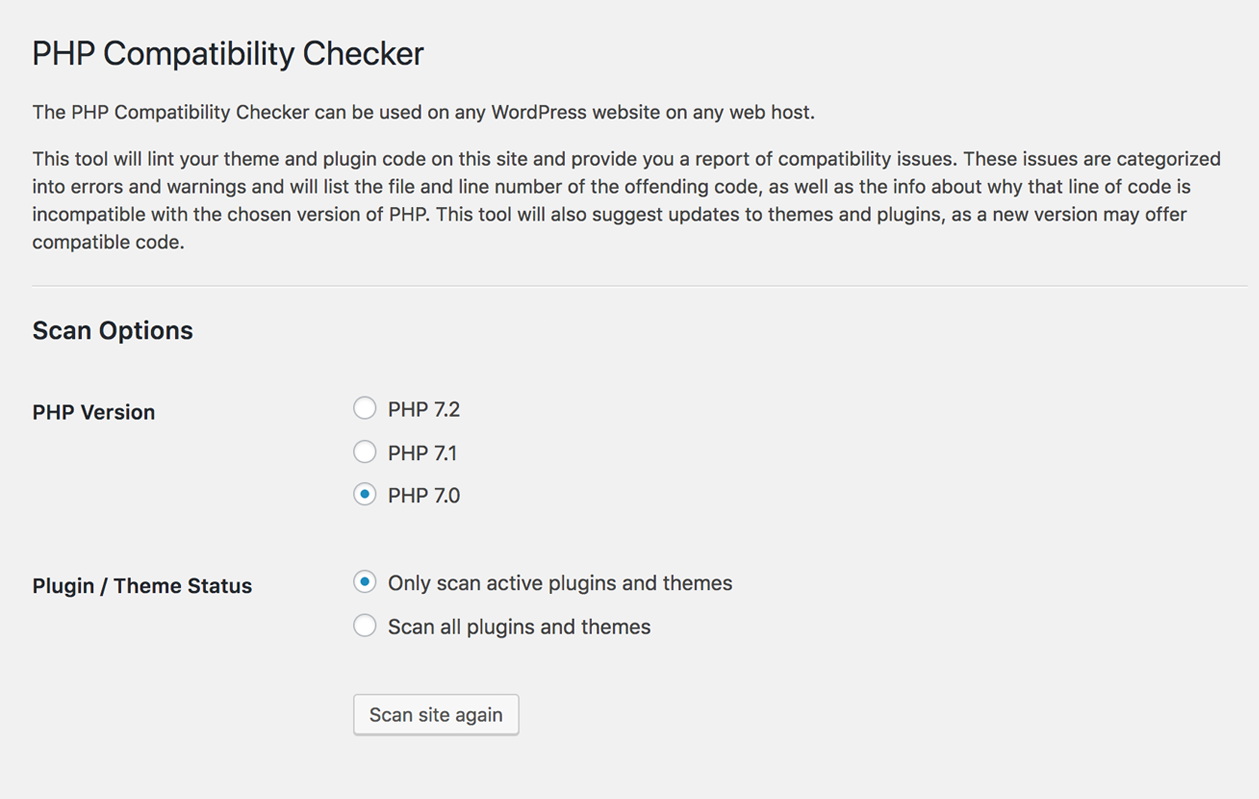
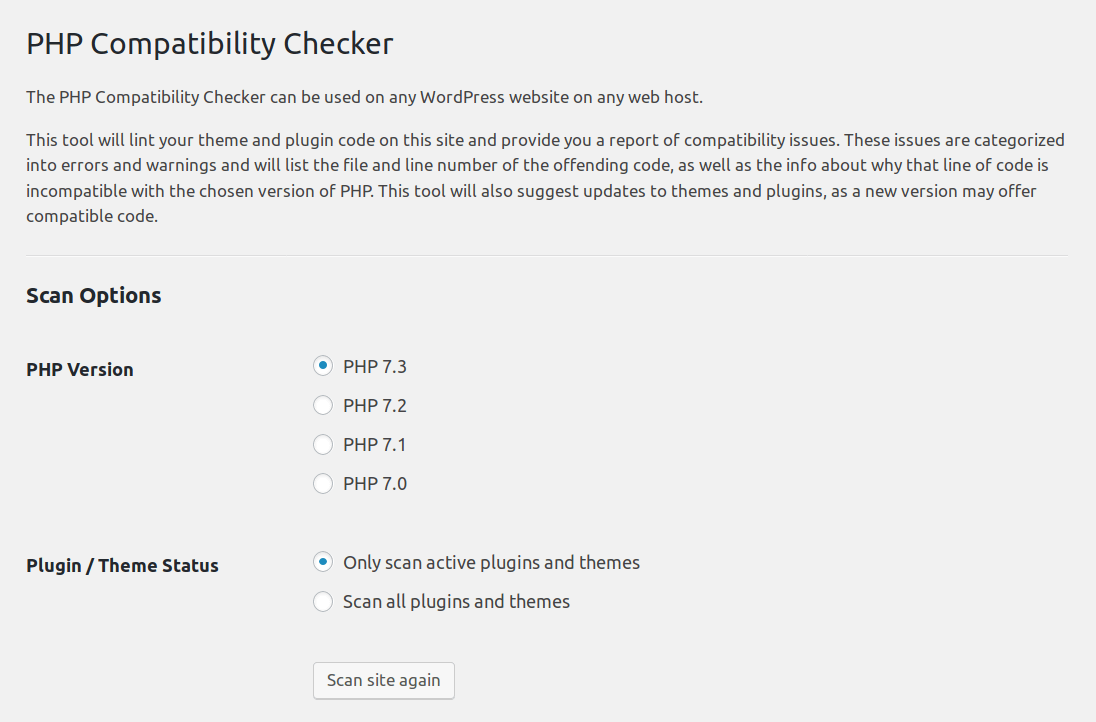
Add PHP 7.3 Support, resolve #228

diff --git a/tests/phpunit/test_scan.php b/tests/phpunit/test_scan.php
@@ -48,4 +48,20 @@ class TestScan extends WP_UnitTestCase {
 
 		$this->assertContains( 'PHP 7.2 compatible.', $results );
 	}
+
+	function test_scan_default_PHP_73() {
+		$root_dir = realpath( dirname( __FILE__ ) . '/../../' );
+
+		$wpephpc = new WPEPHPCompat( $root_dir );
+
+		$wpephpc->clean_after_scan();
+
+		$wpephpc->test_version = '7.3';
+
+		$wpephpc->only_active = 'yes';
+
+		$results = $wpephpc->start_test();
+
+		$this->assertContains( 'PHP 7.3 compatible.', $results );
+	}
 }

diff --git a/wpengine-phpcompat.php b/wpengine-phpcompat.php
@@ -110,6 +110,7 @@ class WPEngine_PHPCompat {
 	 */
 	function get_phpversions() {
 		$versions = array(
+			'PHP 7.3' => '7.3',
 			'PHP 7.2' => '7.2',
 			'PHP 7.1' => '7.1',
 			'PHP 7.0' => '7.0',
